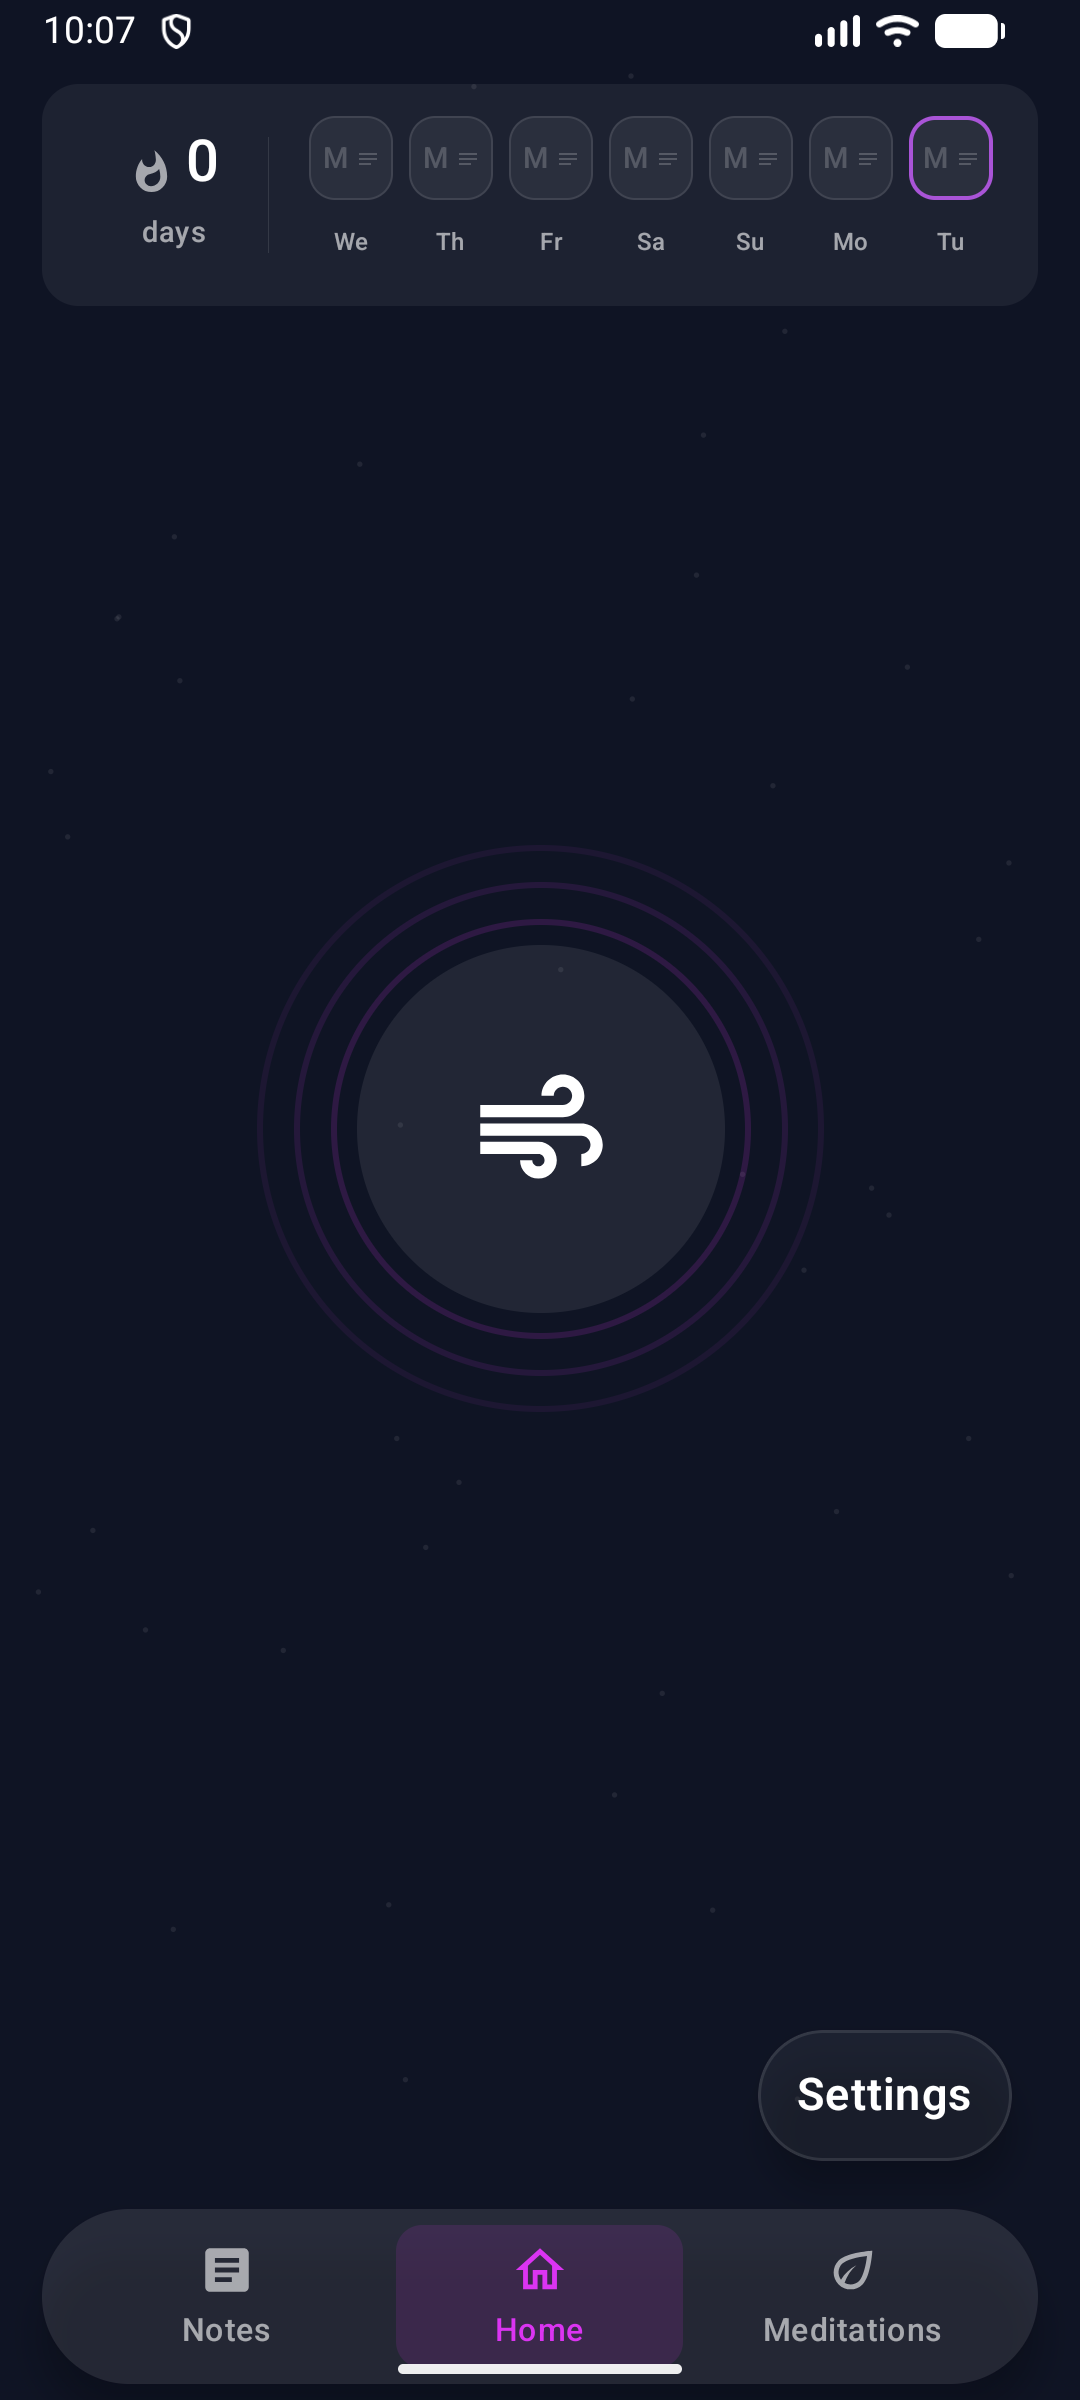
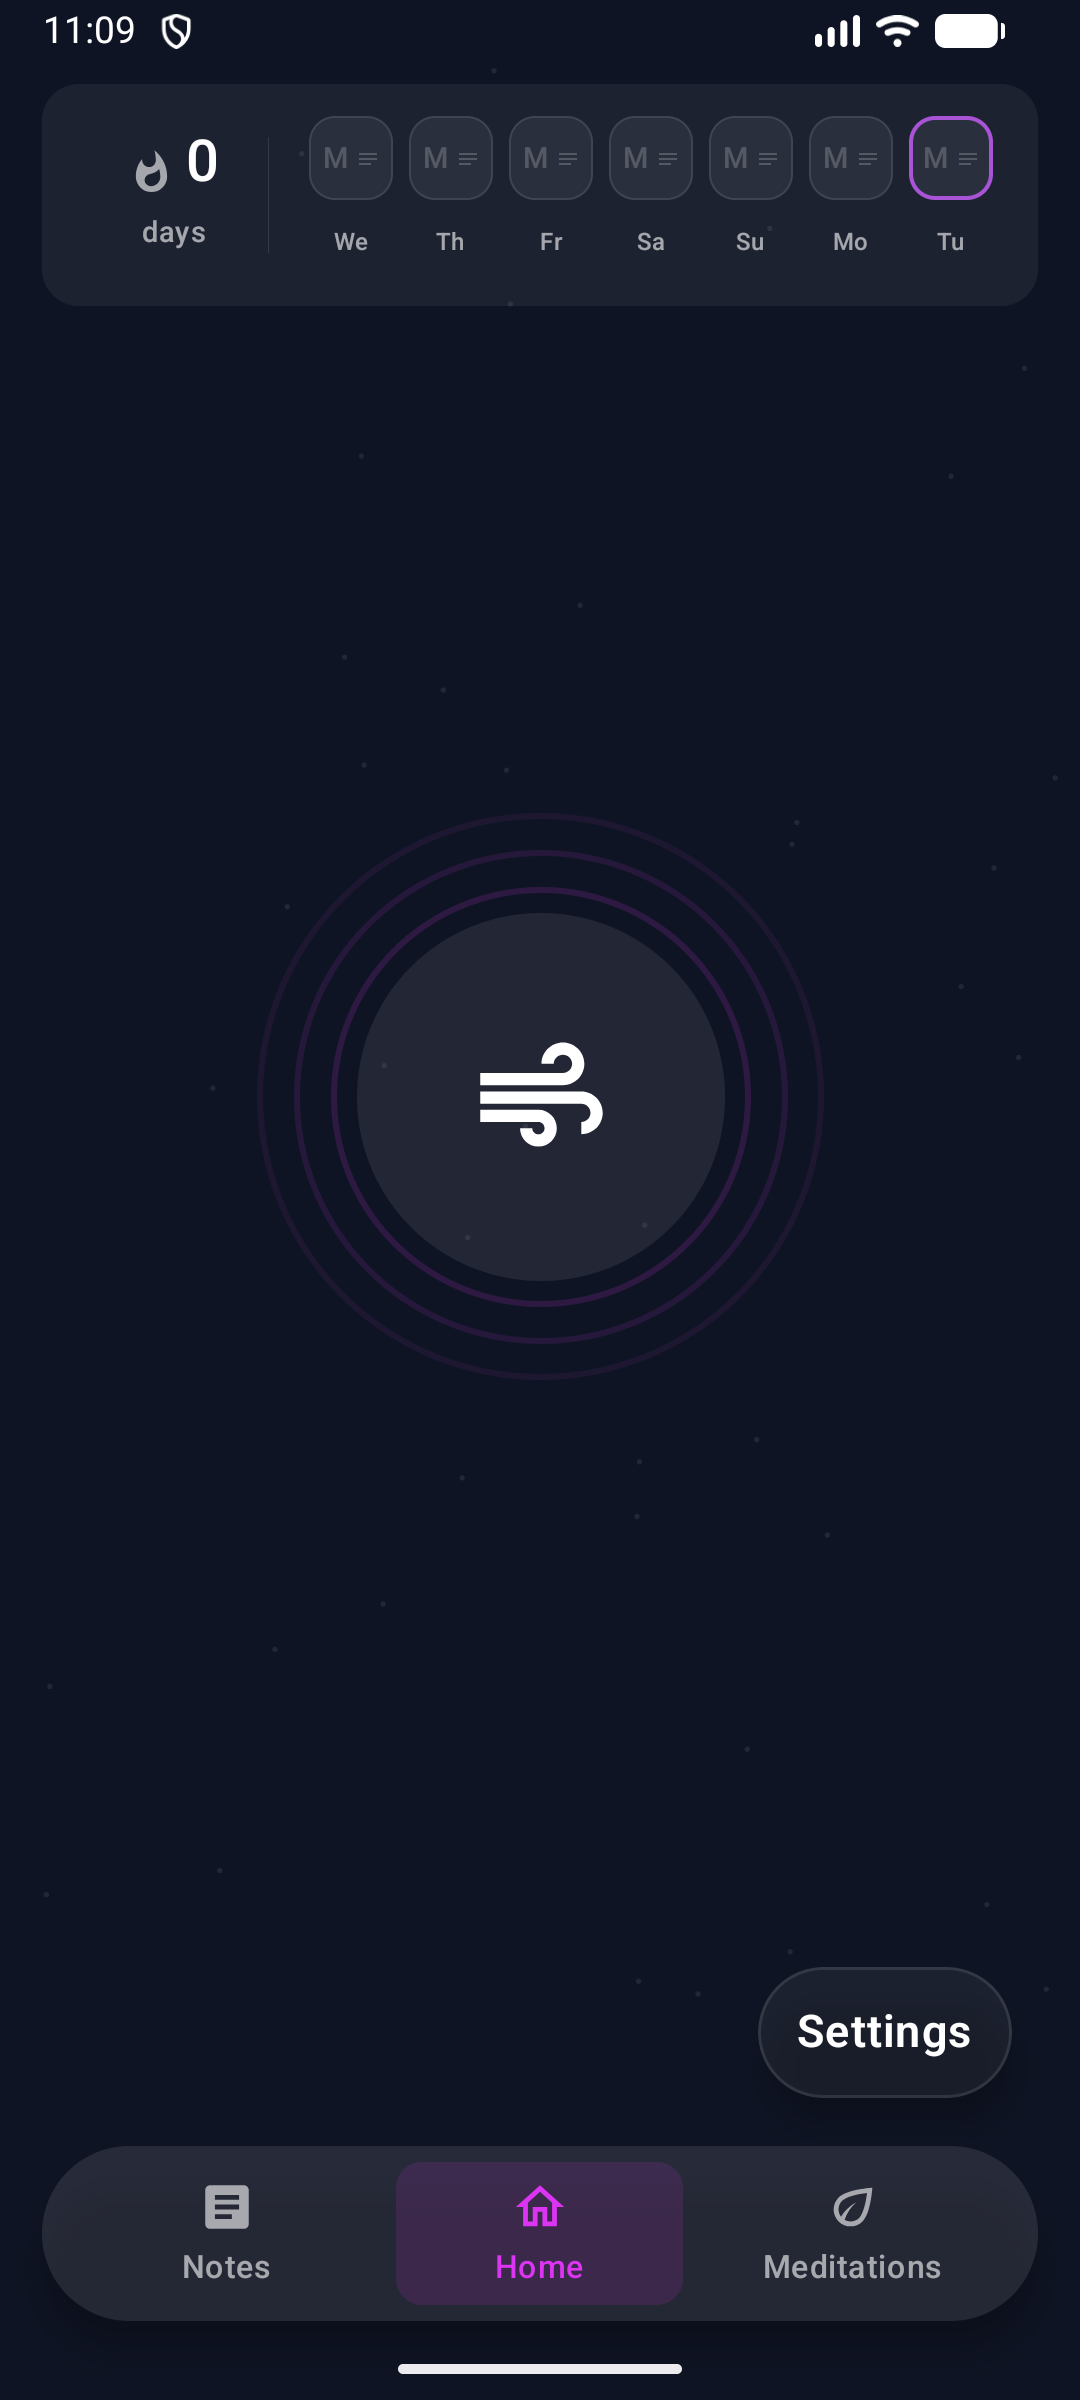
fix(android): the tab bar floats above the gesture area
The capsule was glued to the bottom edge and the gesture handle was drawn
across it. The bar now reserves the navigation bar inset itself — 34 dp on the
device, the same clearance iOS keeps under the capsule for the home indicator —
and the Scaffold no longer reserves that inset a second time, so the content
keeps its 12 dp gap above the bar instead of drifting away from it.

diff --git a/Android/app/src/main/java/com/mn/android/MainActivity.kt b/Android/app/src/main/java/com/mn/android/MainActivity.kt
@@ -19,6 +19,12 @@ import androidx.compose.foundation.layout.fillMaxSize
 import androidx.compose.foundation.layout.fillMaxWidth
 import androidx.compose.foundation.layout.padding
 import androidx.compose.foundation.layout.size
+import androidx.compose.foundation.layout.windowInsetsPadding
+import androidx.compose.foundation.layout.navigationBars
+import androidx.compose.foundation.layout.systemBars
+import androidx.compose.foundation.layout.only
+import androidx.compose.foundation.layout.WindowInsetsSides
+import androidx.compose.foundation.layout.WindowInsets
 import androidx.compose.foundation.layout.width
 import androidx.compose.foundation.shape.CircleShape
 import androidx.compose.foundation.shape.RoundedCornerShape
@@ -171,6 +177,12 @@ private fun MnNav() {
     Box(Modifier.fillMaxSize()) {
         Scaffold(
         containerColor = MnTheme.background,
+        // The tab bar reserves the navigation bar inset itself, so the content
+        // must not reserve it a second time — otherwise the content keeps a
+        // 34 dp gap above a bar that already floats above the gesture area.
+        contentWindowInsets = WindowInsets.systemBars.only(
+            WindowInsetsSides.Top + WindowInsetsSides.Horizontal,
+        ),
         bottomBar = {
             if (currentRoute in TabBarRoutes) {
                 MnTabBar(
@@ -310,7 +322,10 @@ private fun MnTabBar(currentRoute: String?, onSelect: (TabItem) -> Unit) {
         Modifier
             .fillMaxWidth()
             // iOS CustomTabBar: `.padding(.horizontal)` + `.padding(.vertical, 6)`.
-            .padding(horizontal = 16.dp, vertical = 6.dp),
+            .padding(horizontal = 16.dp, vertical = 6.dp)
+            // The bar floats above the gesture area — iOS keeps the same 34 pt
+            // of clearance under the capsule (the home indicator's safe area).
+            .windowInsetsPadding(WindowInsets.navigationBars),
     ) {
         Row(
             Modifier

diff --git a/docs/ui-parity/README.md b/docs/ui-parity/README.md
@@ -141,6 +141,11 @@ while fixing them. The deltas that mattered are listed below.
   Android `Scaffold` already reserves the tab bar's height — the padding was counted
   twice and the capsules floated 80 dp above the bar (in landscape the Add Note pill
   landed on top of a note card). Both now sit 12 dp above the bar.
+- The tab bar's capsule was glued to the bottom edge, with the gesture handle drawn
+  across it. It now reserves the navigation bar inset itself (34 dp on the device,
+  the same clearance iOS keeps under the capsule for the home indicator), and the
+  `Scaffold` no longer reserves the same inset a second time — so the content keeps
+  its 12 dp gap above the bar instead of drifting away from it.
 - Settings: centred title, segmented-control selection uses the grey toolbar background
   (not accent), slider thumbs are plain 22dp white circles.
 - Streak detail: `CenterAlignedTopAppBar` with a bordered "Done" pill, recommendations
